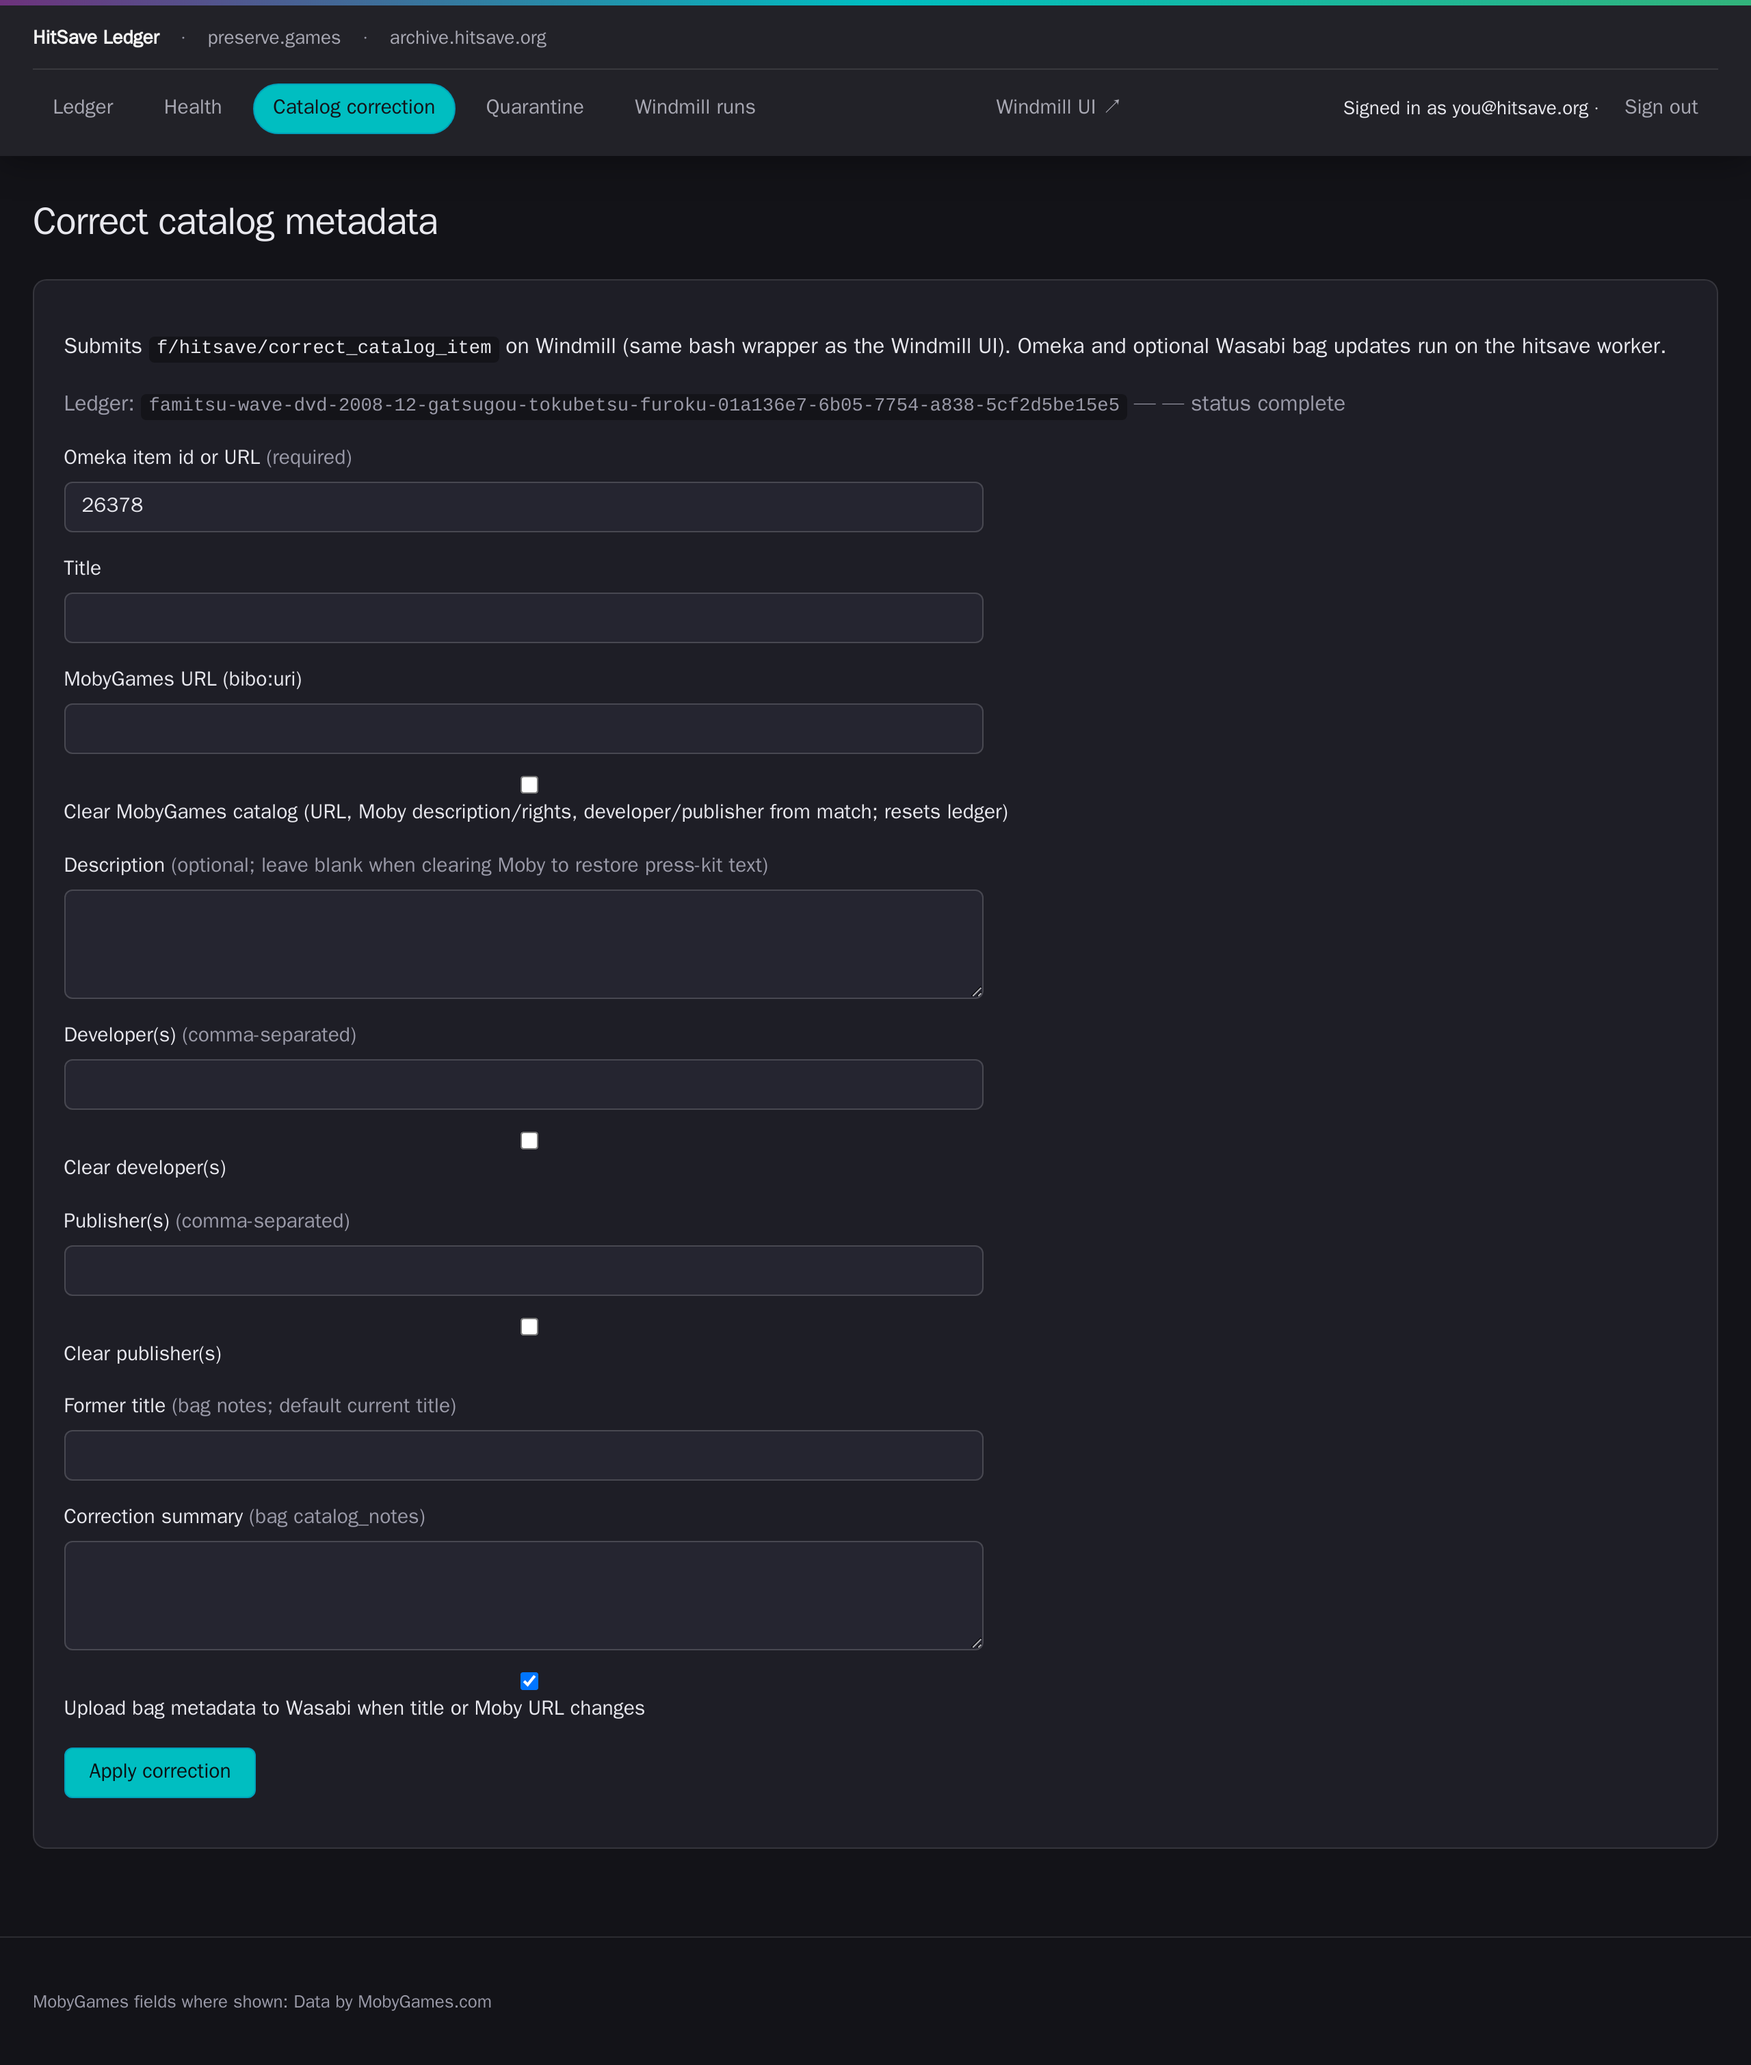
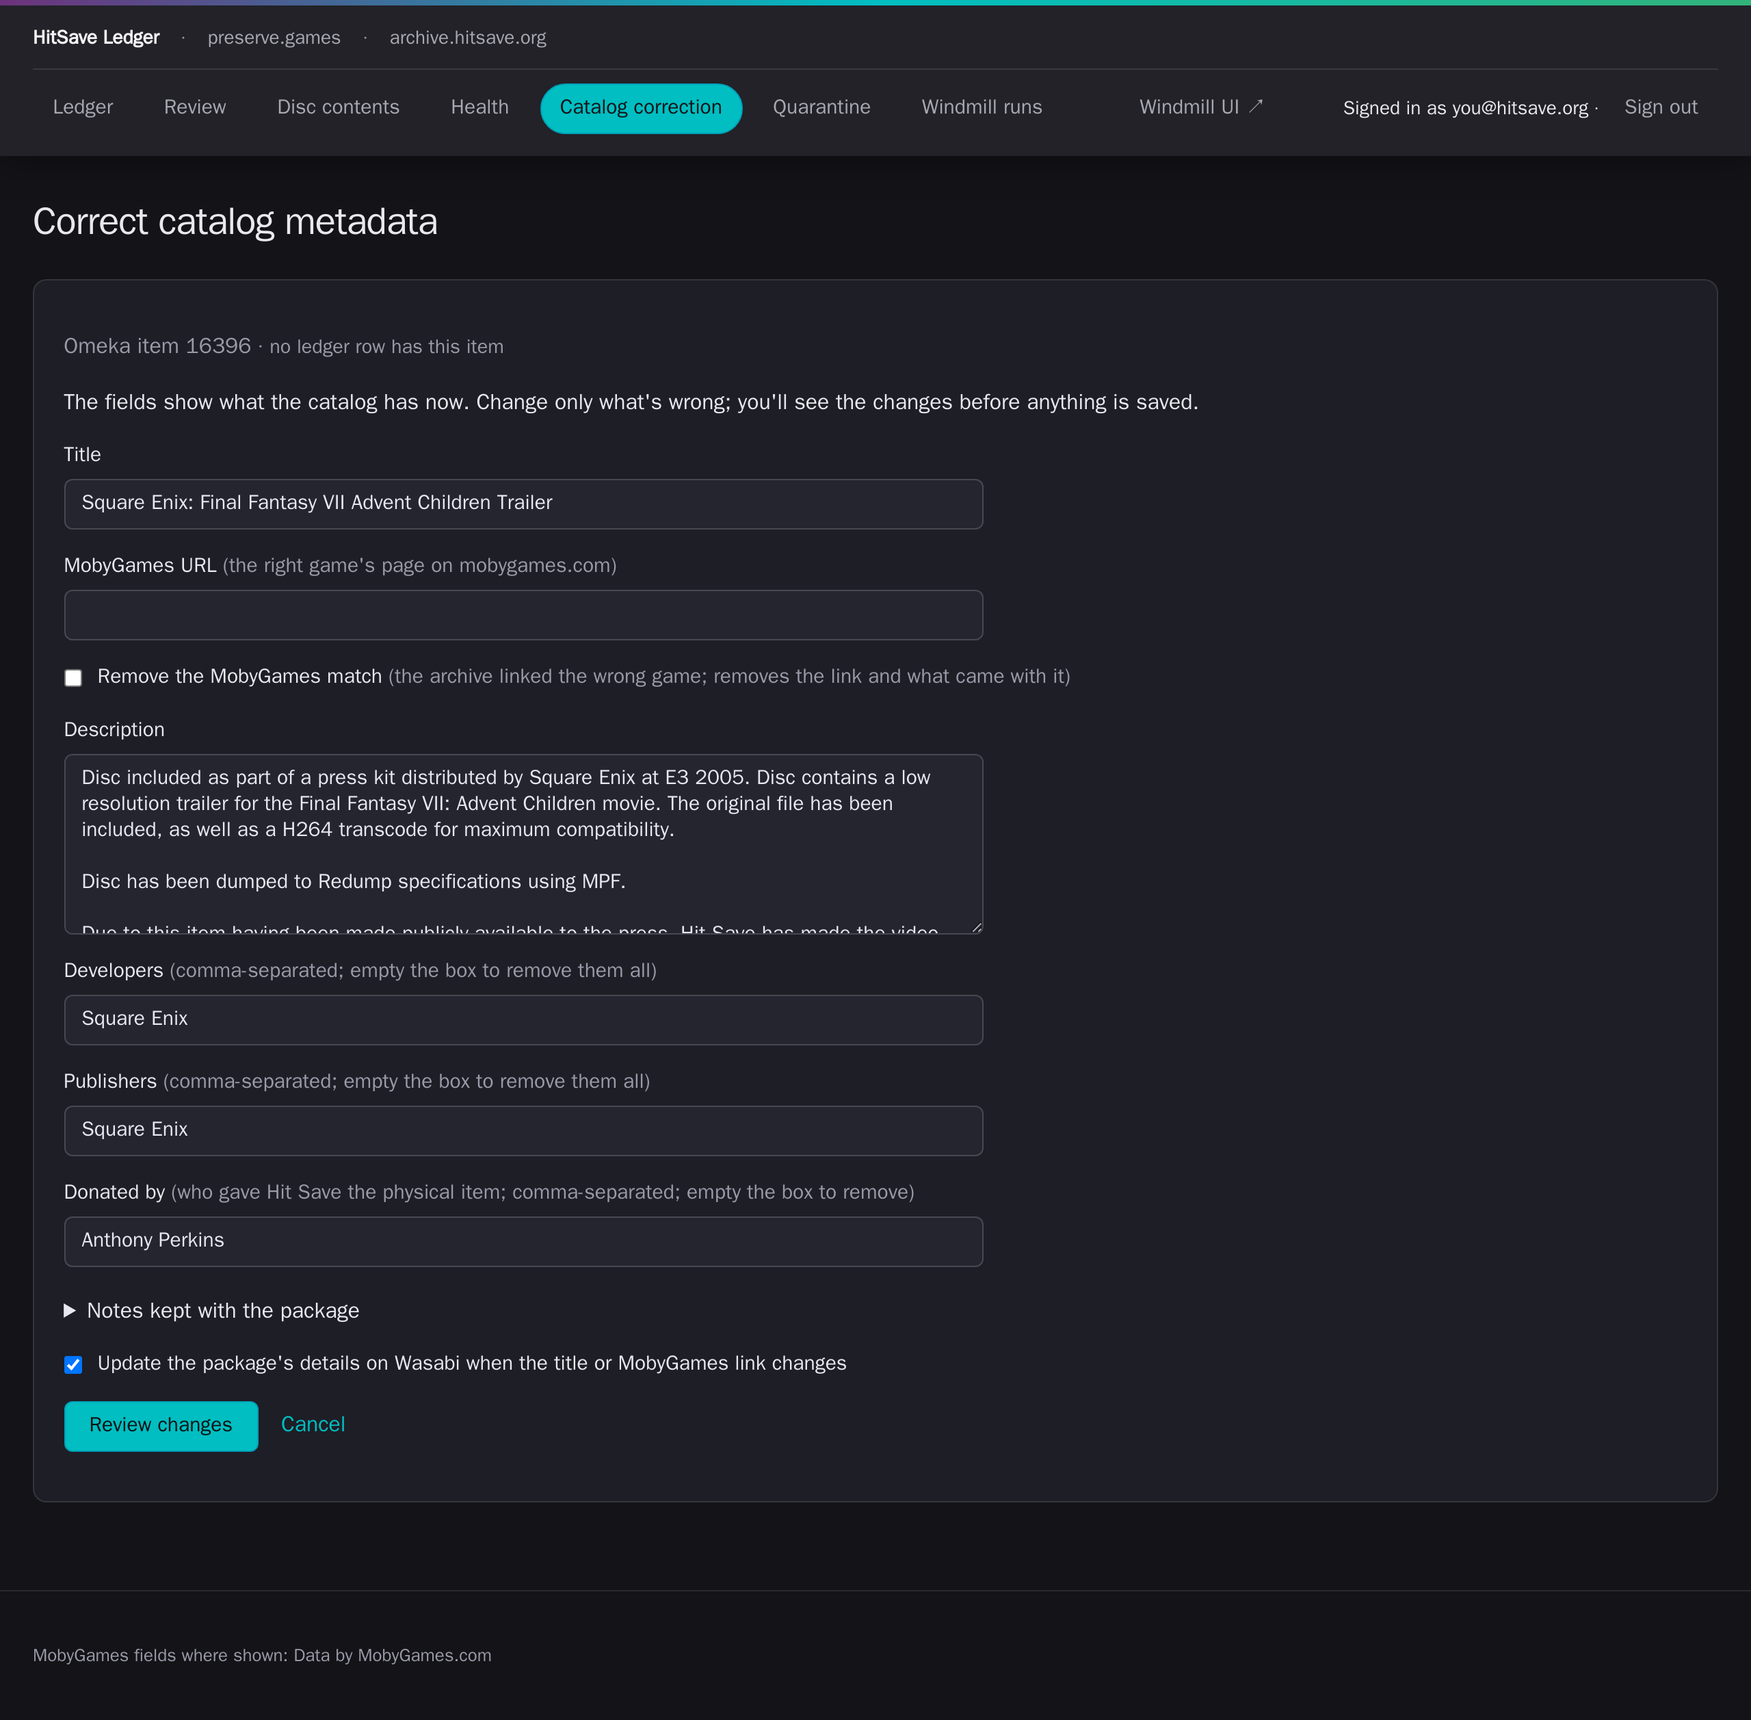
Archivist guide: retake the correction form screenshot (#138)
The old screenshot showed the form before it was filled in with the
catalog's current values and before it had the Donated by box. The new
one shows item 16396, which has a donor credit.

diff --git a/docs/archivist-guide.md b/docs/archivist-guide.md
@@ -190,8 +190,7 @@ To fix a title or other details:
 1. Open the package's item page and click **Correct metadata**. The **Correct catalog metadata**
    page opens with the fields filled in with what the catalog has now.
 
-   ![The Correct catalog metadata form, filled in with the item's current title, MobyGames URL, description, developers and publishers](images/archivist-guide/correct-form.png)
-   <!-- TODO: screenshot predates the prefilled form (2026-11-06); retake. Also lacks the Donated by box (2026-11-08). -->
+   ![The Correct catalog metadata form for the Final Fantasy VII Advent Children trailer disc, filled in with its current title, description, developers, publishers and Donated by: Anthony Perkins](images/archivist-guide/correct-form.png)
 
 2. Change only what's wrong. Fields you leave as they are stay unchanged.
    - **Title**
